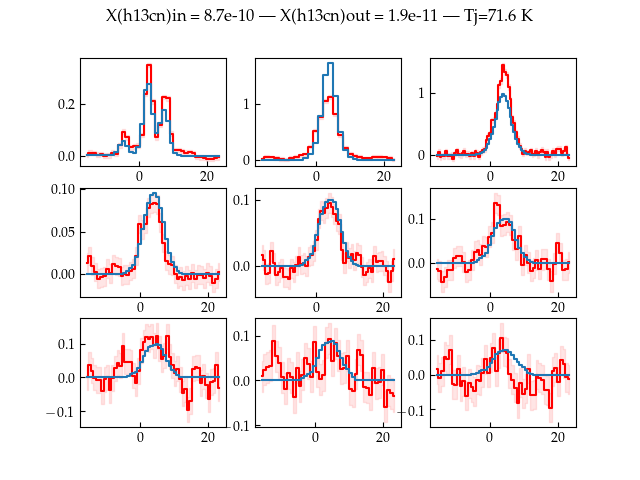
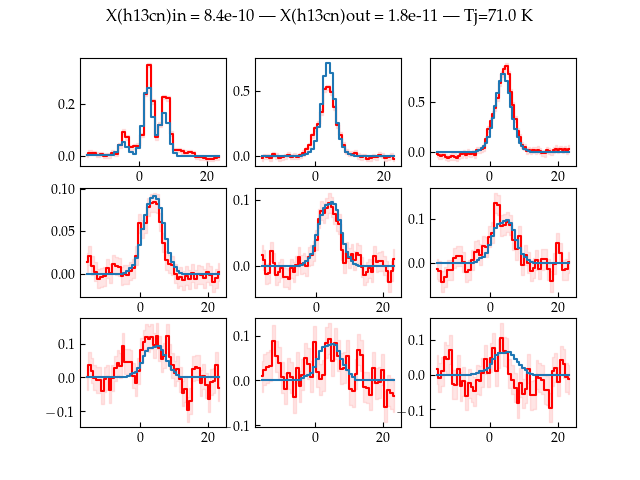
Update 'bestfit.png' and the script that makes it

diff --git a/the_new_script.py b/the_new_script.py
@@ -699,11 +699,11 @@ if True and __name__ == "__main__":
 
                 # X_in = 8.841e-10
                 # X_out = 2.04e-11
-                X_in = 8.681e-10
-                X_out = 1.947e-11
+                X_in = 8.41e-10
+                X_out = 1.83e-11
                 # db_val = 1.746
                 # temperature_jump = 72.4*u.K
-                temperature_jump = 71.56*u.K
+                temperature_jump = 71.0*u.K
 
                 # vel_center=3.91
                 vel_center=3.760
